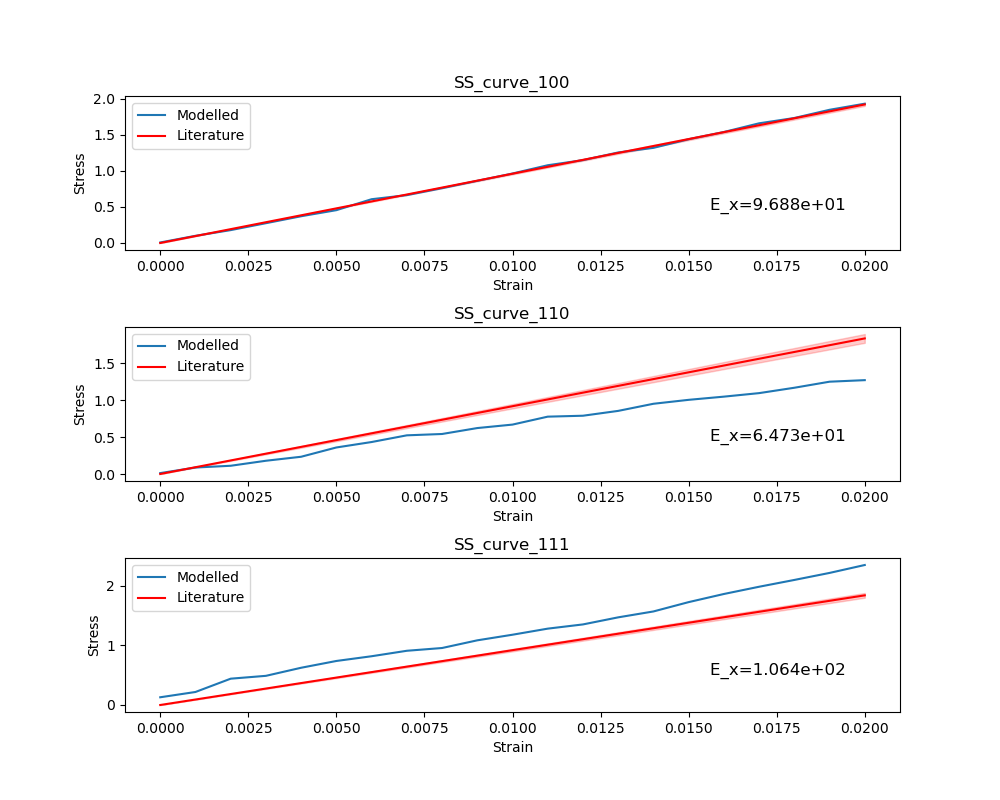
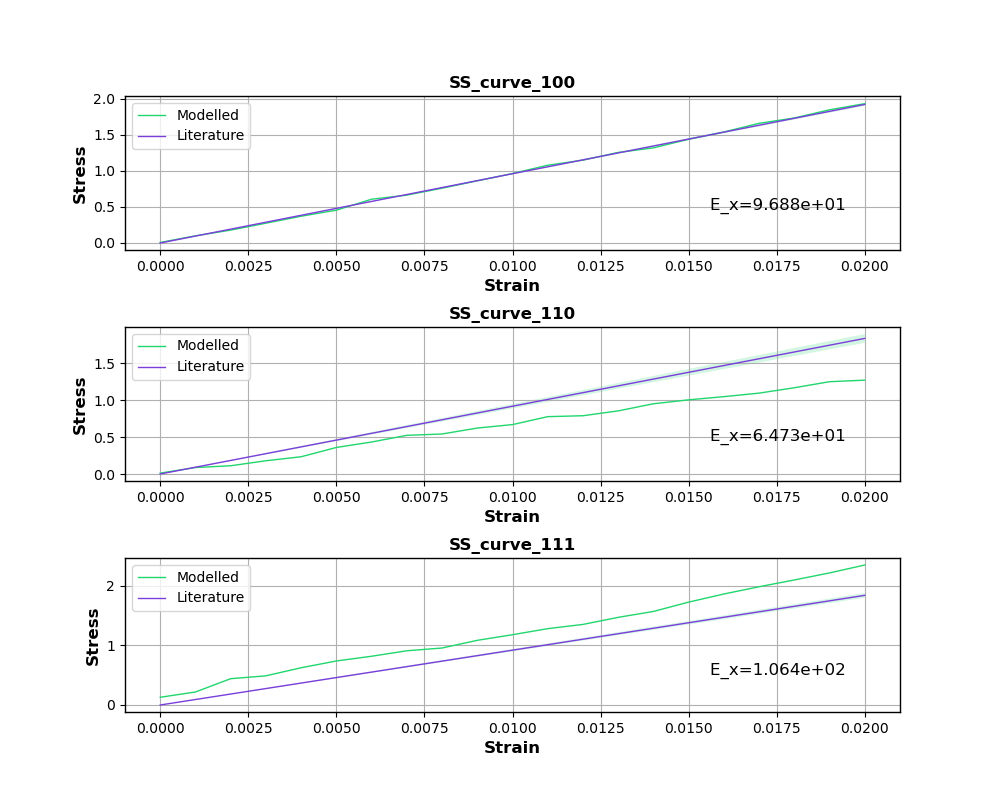
I make pretty picture

diff --git a/HEA_compression/LMP_Files/Var1/Post_Process_4.py b/HEA_compression/LMP_Files/Var1/Post_Process_4.py
@@ -64,6 +64,9 @@ for i in range(0, numfile):
 print('m: ',m)
 print('c: ',c)
 
+# Using custom style
+plt.style.use("/home/sez26/TIGP-IIP/Learning/my_style.mplstyle")
+
 # Create a figure with a numfilex1 grid of subplots
 fig, axs = plt.subplots(numfile, 1, figsize=(10, 8), gridspec_kw={'wspace': 0.5, 'hspace': 0.5})
 
@@ -96,9 +99,9 @@ lit_val_HEA_Eu = np.array([1, 3, 2])
 for i in range(0, numfile):
     axs[i].plot(Res_Read[i, :, 0], Res_Read[i, :, 1])
     # plot literature values
-    axs[i].plot(Res_Read[i, :, 0], Res_Read[i, :, 0]*lit_val_HEA_E[i],'r')
+    axs[i].plot(Res_Read[i, :, 0], Res_Read[i, :, 0]*lit_val_HEA_E[i])
     # add shaded uncertainty region
-    axs[i].fill_between(Res_Read[i, :, 0], Res_Read[i, :, 0]*(lit_val_HEA_E[i] - lit_val_HEA_Eu[i]), Res_Read[i, :, 0]*(lit_val_HEA_E[i] + lit_val_HEA_Eu[i]), color = 'r', alpha=0.2)
+    axs[i].fill_between(Res_Read[i, :, 0], Res_Read[i, :, 0]*(lit_val_HEA_E[i] - lit_val_HEA_Eu[i]), Res_Read[i, :, 0]*(lit_val_HEA_E[i] + lit_val_HEA_Eu[i]), alpha=0.2)
     # figure titles and axes labels
     axs[i].set_title(Figure_Titles[i])
     axs[i].set_xlabel('Strain')
